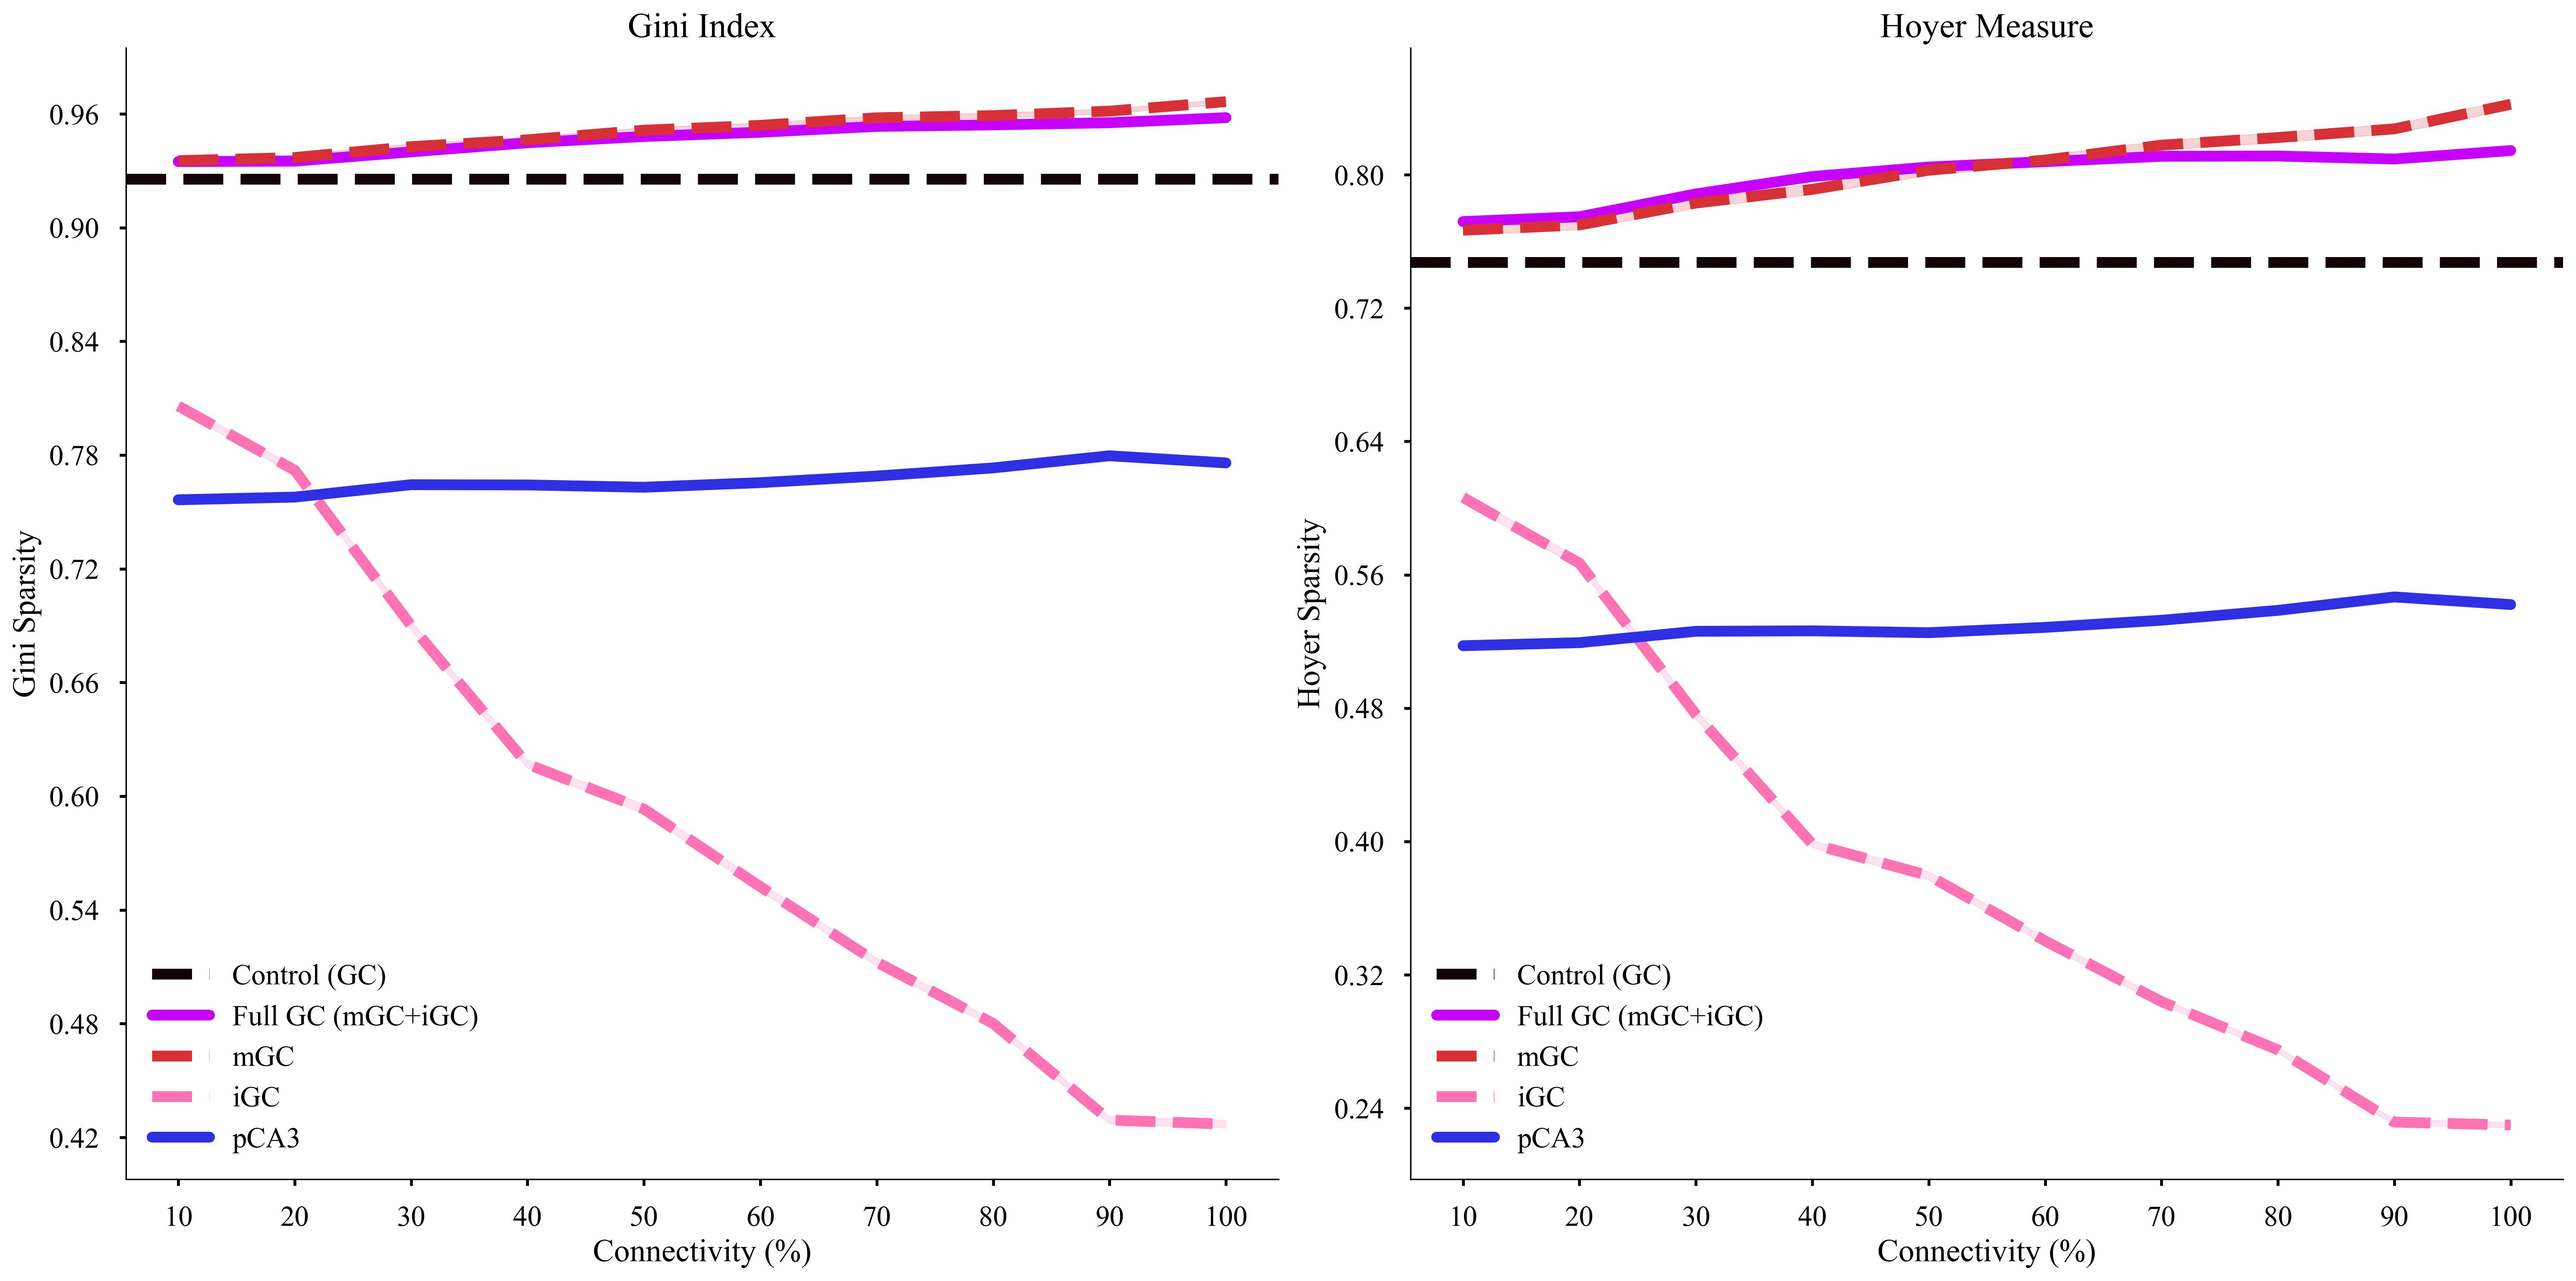
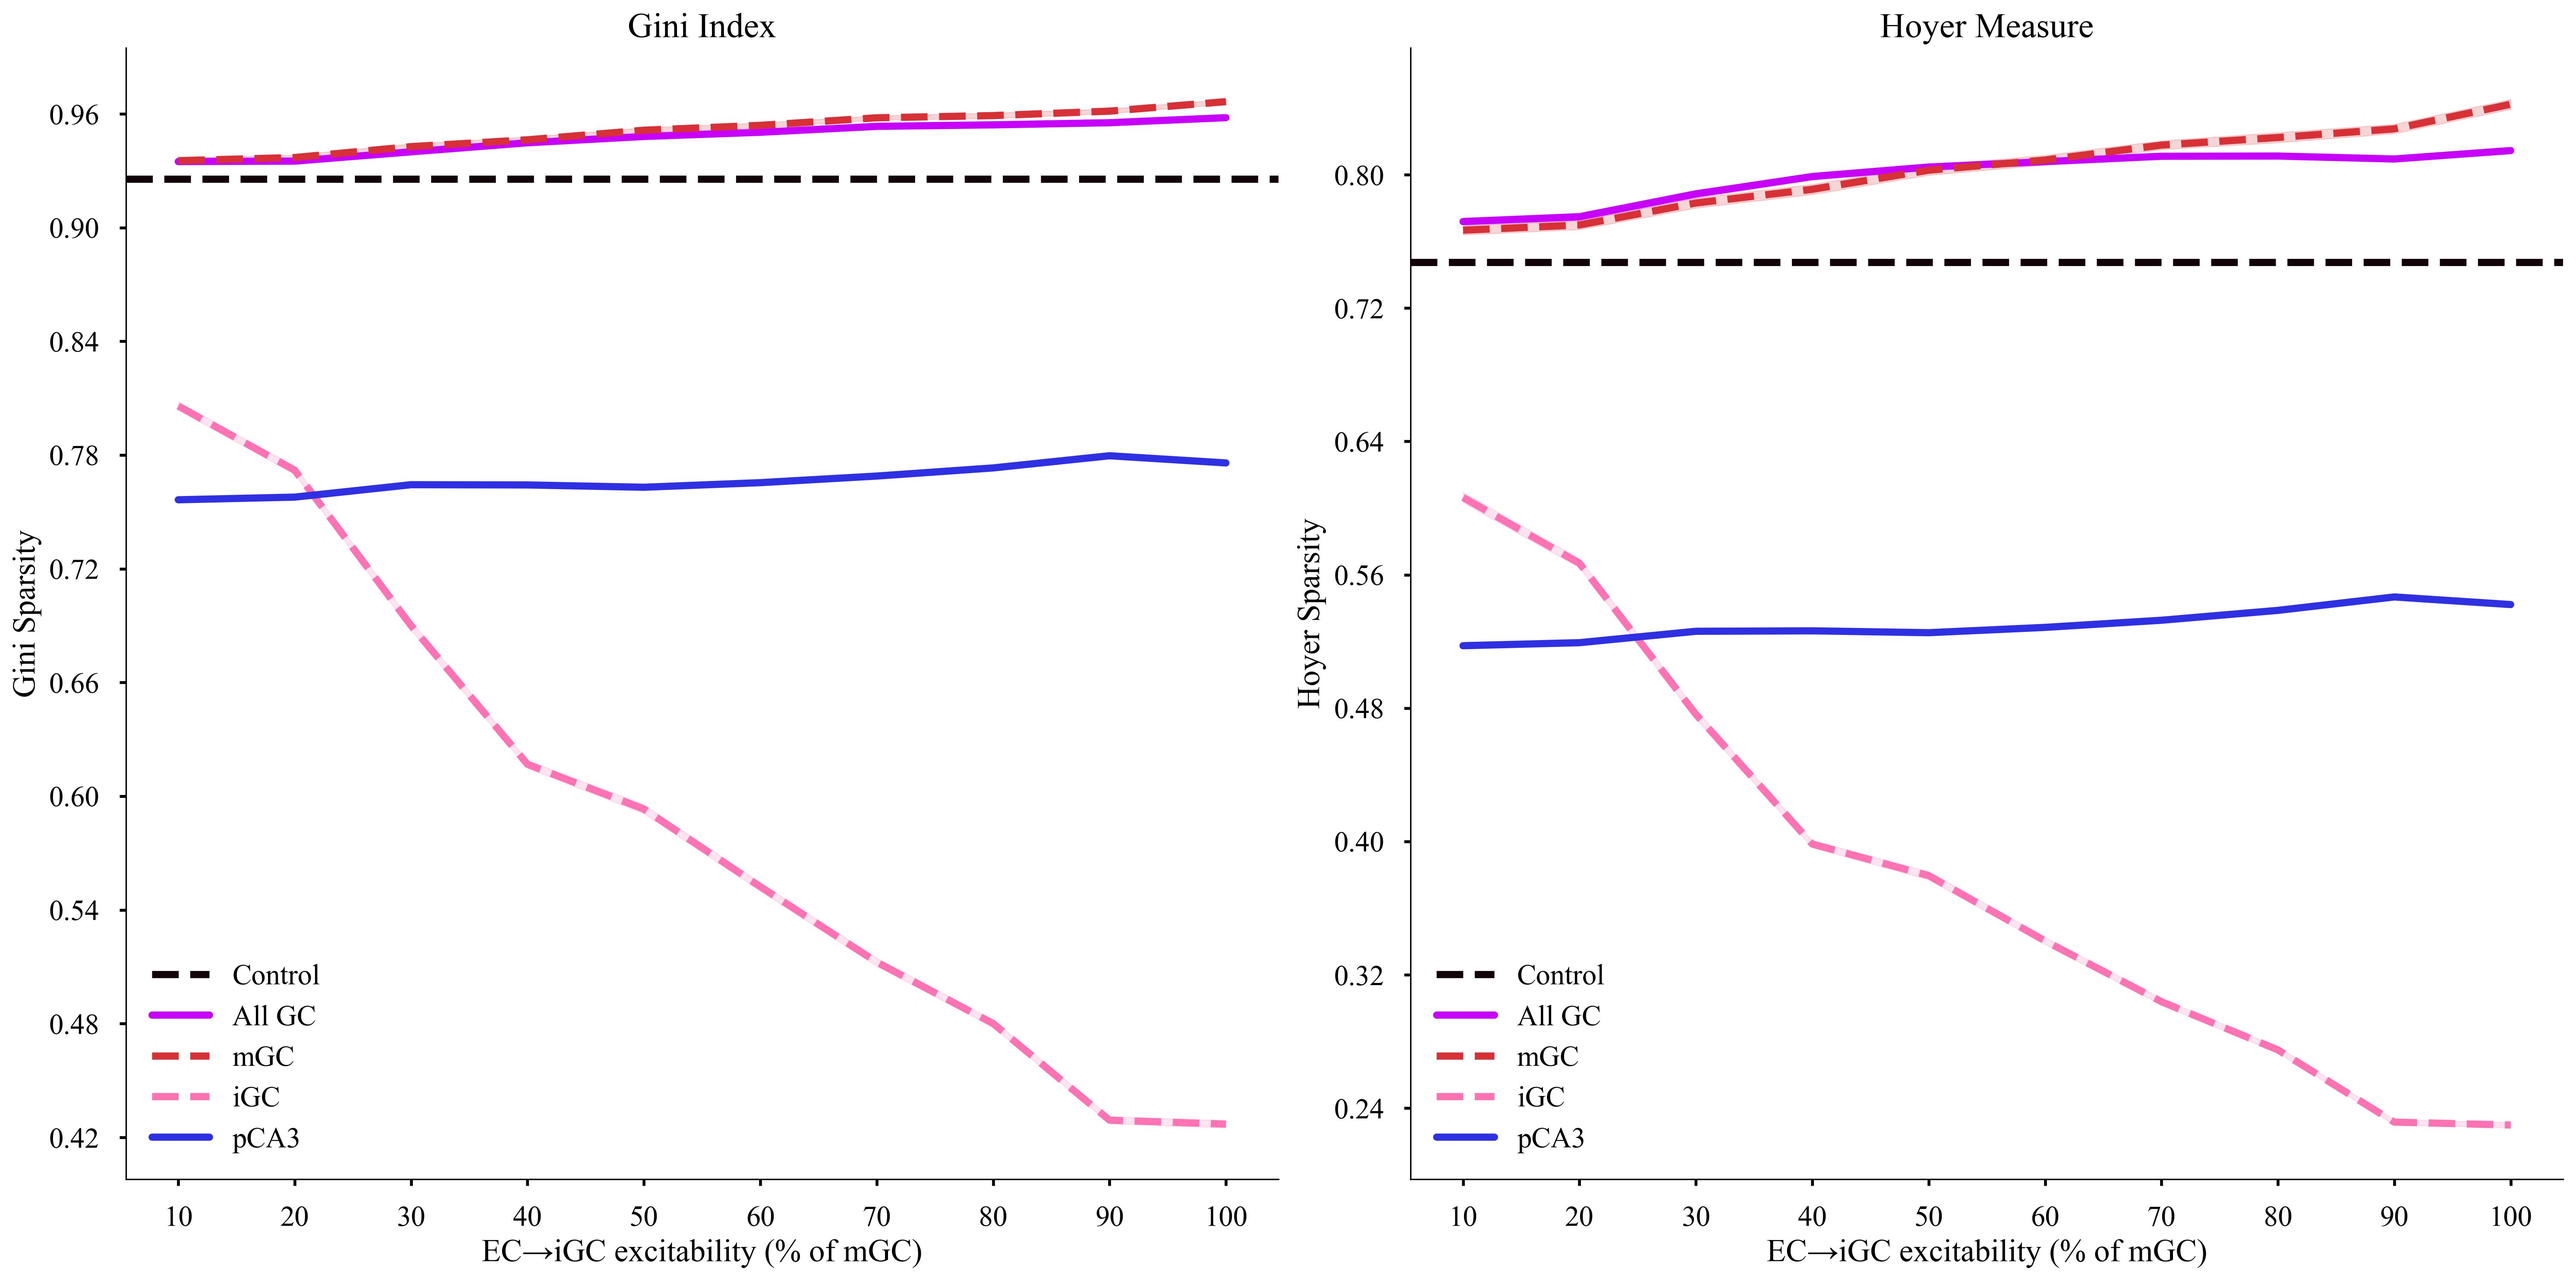
sparsity plots

diff --git a/scripts/data/sparsity.py b/scripts/data/sparsity.py
@@ -1,17 +1,17 @@
 import numpy as np
 import matplotlib.pyplot as plt
-from matplotlib.ticker import MaxNLocator
+from matplotlib.ticker import MaxNLocator, FuncFormatter
 from scipy.stats import sem
 
 from utils.data import load_pattern_data
-from utils.plot_styles import cell_colors
+from utils.plot_styles import cell_colors, linewidth, igc_connectivity_label
 from utils.sparsity import gini_index, hoyer
 
 plt.style.use('seaborn-v0_8-poster')
 plt.rcParams.update({
     "font.family": "serif",
     "font.serif": ["Times New Roman"],
-    "lines.linewidth": 6,
+    "lines.linewidth": linewidth,
     'lines.solid_joinstyle': 'round',
     'lines.solid_capstyle': 'round',
 })
@@ -64,57 +64,64 @@ def collect_sparsity(fn):
     return means, errors
 
 
-def plot_sparsity():
-    gini_means, gini_errs = collect_sparsity(gini_index)
-    hoyer_means, hoyer_errs = collect_sparsity(hoyer)
+panel_specs = [
+    ('gc',   cell_colors['gc'],   'All GC', '-'),
+    ('mgc',  cell_colors['mgc'],  'mGC',    '-'),
+    ('igc',  cell_colors['igc'],  'iGC',    '-'),
+    ('pca3', cell_colors['pca3'], 'pCA3',   '-'),
+]
 
-    ng_groups = groups[1:]
+
+def _draw_panel(ax, ct, color, label, fn_means, fn_errs, ng_groups):
     ng_idx = slice(1, None)
+    ctrl_val = fn_means[ct][0]
+    ng_vals = np.array(fn_means[ct][ng_idx])
+    ng_err  = np.array(fn_errs[ct][ng_idx])
 
-    fig, axes = plt.subplots(1, 2, figsize=(20, 10), dpi=300)
+    ctrl_line = None
+    if not np.isnan(ctrl_val):
+        ctrl_line, = ax.plot([], [], color=cell_colors['control'], linestyle='--')
+        ax.axhline(y=ctrl_val, color=cell_colors['control'], linestyle='--')
 
-    population_specs = [
-        ('gc',   cell_colors['gc'],   'Full GC (mGC+iGC)', '-'),
-        ('mgc',  cell_colors['mgc'],  'mGC',               '--'),
-        ('igc',  cell_colors['igc'],  'iGC',               '--'),
-        ('pca3', cell_colors['pca3'], 'pCA3',              '-'),
-    ]
+    ax.plot(range(len(ng_groups)), ng_vals, color=color, linestyle='-')
+    ax.fill_between(range(len(ng_groups)), ng_vals - ng_err, ng_vals + ng_err,
+                    color=color, alpha=0.2)
 
-    for ax, (fn_means, fn_errs, title, ylabel) in zip(axes, [
-        (gini_means, gini_errs, 'Gini Index', 'Gini Sparsity'),
-        (hoyer_means, hoyer_errs, 'Hoyer Measure', 'Hoyer Sparsity'),
-    ]):
-        ax.set_title(title)
-        ax.yaxis.set_major_locator(MaxNLocator(nbins=10))
+    ax.set_xticks(range(len(ng_groups)))
+    ax.set_xticklabels([10, '', '', 40, '', '', 70, '', '', 100])
+    ax.yaxis.set_major_locator(MaxNLocator(nbins=4))
+    ax.yaxis.set_major_formatter(FuncFormatter(lambda x, _: f'{x:.2f}'.lstrip('0')))
+    
+    label_x = 0.9 if label == 'iGC' else 0.03 
+    ax.text(label_x, 0.97, label, transform=ax.transAxes, ha='left', va='top', color=color, fontweight='bold', fontsize=16)
+    ax.spines['right'].set_visible(False)
+    ax.spines['top'].set_visible(False)
 
-        for ct, color, label, ls in population_specs:
-            ctrl_val = fn_means[ct][0]
-            ng_vals = np.array(fn_means[ct][ng_idx])
-            ng_err  = np.array(fn_errs[ct][ng_idx])
+    return ctrl_line
 
-            # Skip if no data at all for this cell type
-            if np.all(np.isnan(ng_vals)):
-                continue
 
-            # Control dashed line only for gc (full population baseline)
-            if ct == 'gc' and not np.isnan(ctrl_val):
-                ax.axhline(y=ctrl_val, color=cell_colors['control'], linestyle='--', label='Control (GC)')
+def plot_measure(fn, ylabel, outfile):
+    means, errs = collect_sparsity(fn)
+    ng_groups = groups[1:]
 
-            ax.plot(range(len(ng_groups)), ng_vals, color=color, label=label, marker='', linestyle=ls)
-            ax.fill_between(range(len(ng_groups)), ng_vals - ng_err, ng_vals + ng_err, color=color, alpha=0.2)
+    fig, axes = plt.subplots(1, 4, figsize=(16, 4), dpi=300)
 
-        xlabels = range(10, 10 * len(ng_groups) + 1, 10)
-        ax.set_xticks(range(len(ng_groups)))
-        ax.set_xticklabels(xlabels)
-        ax.set_xlabel('Connectivity (%)')
-        ax.set_ylabel(ylabel)
-        ax.legend(frameon=False)
-        ax.spines['right'].set_visible(False)
-        ax.spines['top'].set_visible(False)
+    ctrl_line = None
+    for ax, (ct, color, label, _) in zip(axes, panel_specs):
+        line = _draw_panel(ax, ct, color, label, means, errs, ng_groups)
+        if line is not None:
+            ctrl_line = line
 
-    plt.tight_layout()
-    plt.savefig('figures/plots/sparsity.jpg', dpi=300, format='jpg', bbox_inches='tight')
+    fig.text(0.5, 0.01, igc_connectivity_label, ha='center', va='bottom', fontsize=18)
+    axes[0].set_ylabel(ylabel)
+
+    if ctrl_line is not None:
+        fig.legend([ctrl_line], ['Control'], loc='lower left', frameon=False, bbox_to_anchor=(0.1, -0.05))
+
+    plt.tight_layout(rect=[0, 0.06, 1, 1])
+    plt.savefig(outfile, dpi=300, format='jpg', bbox_inches='tight')
     plt.close()
 
 
-plot_sparsity()
+plot_measure(gini_index, 'Gini Sparsity',  'figures/plots/sparsity_gini.jpg')
+plot_measure(hoyer,      'Hoyer Sparsity', 'figures/plots/sparsity_hoyer.jpg')
